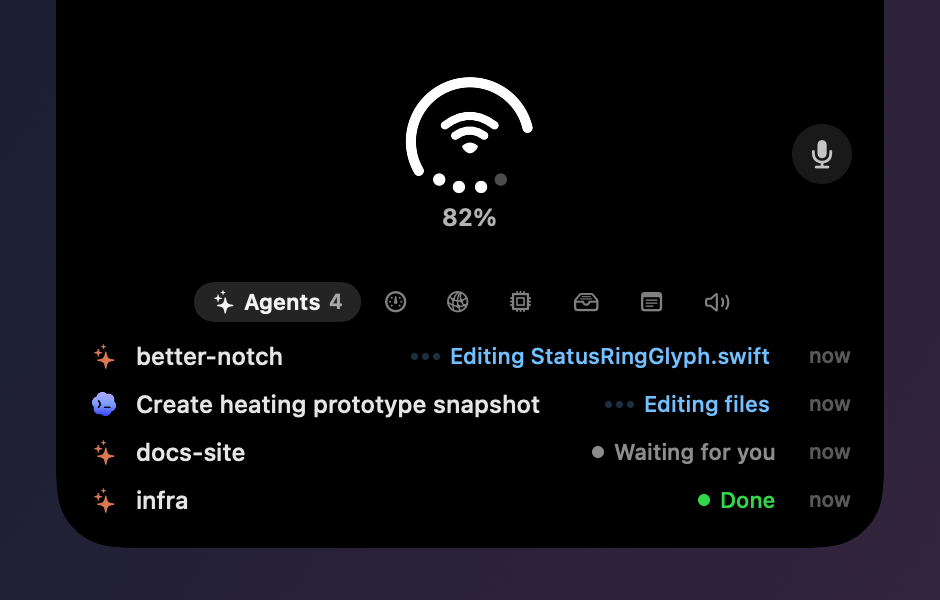
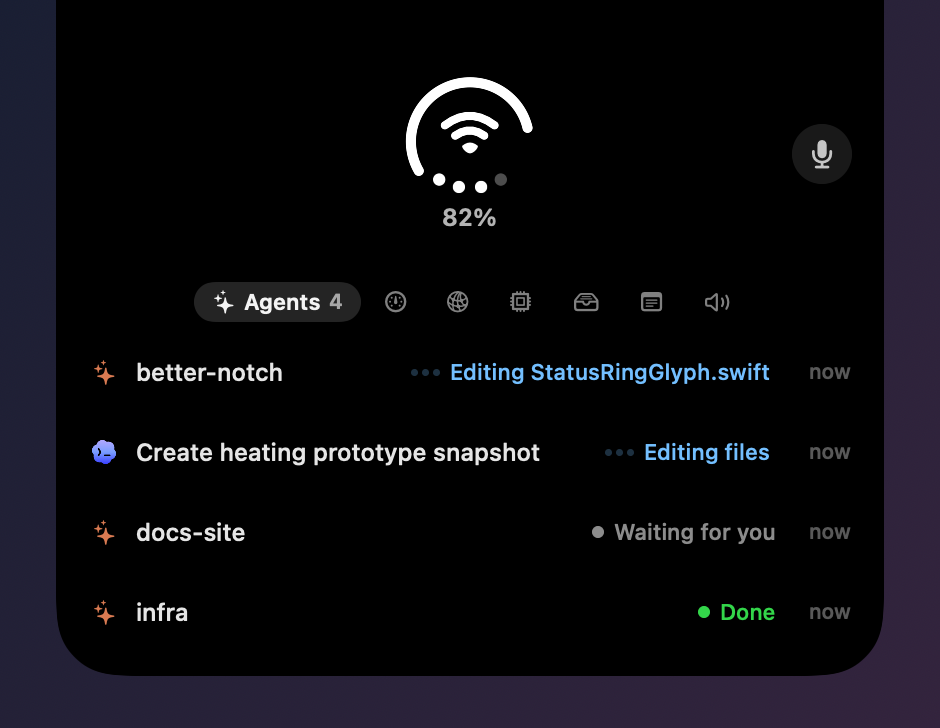
Clickable rows are 40 pt so highlight corners match the notch
Highlights sit 12 pt inside the opened notch's 32 pt corners, so their
rounded ends need a 20 pt radius, which a 40 pt row allows. The island
window is now 560 pt tall to fit six such rows under the music player.

diff --git a/Notchly/App/SkyLightOverlayController.swift b/Notchly/App/SkyLightOverlayController.swift
@@ -717,9 +717,9 @@ final class SkyLightOverlayController {
     }
 
     private var islandWindowSize: CGSize {
-        // Tall enough for the music player with volume open plus six listening ports, and
+        // Tall enough for the music player with volume open plus six 40 pt rows, and
         // wide enough for the widest tab. Clicks pass through its transparent parts.
-        CGSize(width: IslandCanvas.width, height: 470)
+        CGSize(width: IslandCanvas.width, height: 560)
     }
 
     private func lockScreenPlayerYPosition(for screen: NSScreen) -> CGFloat {

diff --git a/Notchly/Views/Island/IslandMetrics.swift b/Notchly/Views/Island/IslandMetrics.swift
@@ -20,6 +20,9 @@ enum IslandMetrics {
     /// Corner radius of the opened notch.
     static let openedRadius: CGFloat = 32
     static let buttonHeight: CGFloat = 30
+    /// A clickable row tall enough that its highlight's rounded ends match the opened
+    /// notch's corners: twice the concentric radius (32 - 12 = 20, so 40 pt).
+    static let concentricRowHeight: CGFloat = (openedRadius - edgeInset) * 2
 
     /// A corner that runs parallel to an island corner of radius `outer`, limited to a
     /// pill for short controls.

diff --git a/Notchly/Views/Island/ExtrasPanelView.swift b/Notchly/Views/Island/ExtrasPanelView.swift
@@ -194,8 +194,8 @@ struct ExtrasPanelView: View {
         tab == .system ? 10 : 0
     }
     static let bottomPadding: CGFloat = IslandMetrics.edgeInset
-    static let agentRowHeight: CGFloat = 24
-    static let outputRowHeight: CGFloat = 22
+    static let agentRowHeight: CGFloat = IslandMetrics.concentricRowHeight
+    static let outputRowHeight: CGFloat = IslandMetrics.concentricRowHeight
     static let noteHeight: CGFloat = 54
 
     /// The battery panel and music player when the notch opens: fade in while sliding
